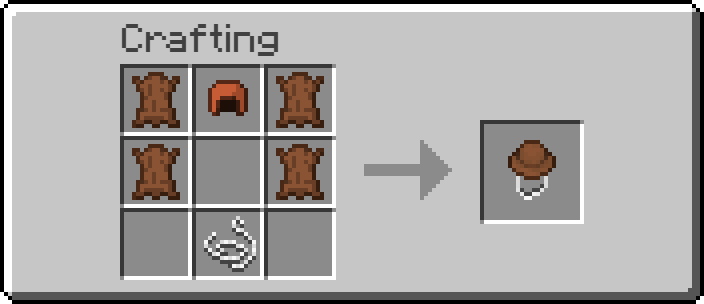
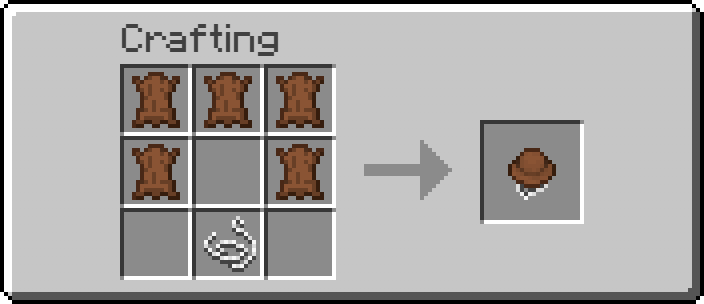
Update devlog with Belt progress

Changed region(s): [[0.2812, 0.2368, 0.375, 0.4441], [0.7188, 0.4441, 0.8125, 0.6513]]

diff --git a/DEVLOG.md b/DEVLOG.md
@@ -572,6 +572,7 @@ Release+-specific visual and sound options are grouped under `Release+ Features`
 - Tarot: three cosmetic texture variants
 - Charcoal: Release+ or Vanilla
 - Furnace Sounds: ON or OFF
+- Belt Item Display: ON or OFF (default ON)
 - These settings do not change gameplay
 
 #### Pouch
@@ -616,7 +617,7 @@ Hard Leather is a reinforced form of Leather used for sturdier utility equipment
 
 <img src="docs/images/hard-leather-comparison.png" alt="Leather and Hard Leather" width="360">
 
-- Hard Leather is used by the Backpack and Fishing Hat
+- Hard Leather is used by the Backpack, Fishing Hat and Belt
 - Books now use Hard Leather instead of normal Leather
 
 #### Fishing Hat
@@ -636,6 +637,42 @@ The Fishing Hat is a reinforced Leather Helmet for players who spend time fishin
 
 <img src="docs/images/fishing-hat-recipe.png" alt="Fishing Hat recipe" width="360">
 <img src="docs/images/fishing-hat-inventory.png" alt="Fishing Hat equipped in the inventory" width="360">
+
+</details>
+
+#### Belt
+
+The Belt is a lightweight Hard Leather equipment piece that gives up some leg protection in exchange for one dedicated carried-item slot.
+
+<img src="docs/images/belt-showcase.png" alt="Belt worn with a stored tool" width="500">
+
+- Equips in the leggings armor slot and provides **1 armor point**
+- Has **123 durability**
+- Holds one Sword, Axe, Pickaxe, Shovel, Hoe, pair of Shears or Steel Hammer
+- Its dedicated slot appears beside the player inventory and as a separate slot to the left of the hotbar while occupied
+- Pressing the configurable Belt key (`B` by default) switches to the stored item; pressing it again returns to the previous hotbar slot
+- A stowed item is visibly carried on the Belt in third person and disappears from the Belt while selected
+- `Belt Item Display` in `Release+ Features` can hide the visible stowed item without changing Belt mechanics
+- Normal item pickups do not automatically fill the Belt slot
+- If the Belt is removed or breaks while carrying an item, the stored item drops into the world
+
+<details>
+<summary>Recipe and inventory</summary>
+
+<img src="docs/images/belt-recipe.png" alt="Belt recipe" width="360">
+<img src="docs/images/belt-inventory-gui.png" alt="Belt equipped with its dedicated inventory slot" width="360">
+<img src="docs/images/belt-1stperson-hotbar.png" alt="Belt slot beside the hotbar" width="430">
+
+</details>
+
+<details>
+<summary>More worn Belt views</summary>
+
+<img src="docs/images/belt-item-sword.png" alt="Sword stored on the Belt" width="220">
+<img src="docs/images/belt-item-axe.png" alt="Axe stored on the Belt" width="220">
+<img src="docs/images/belt-item-sword-boots.png" alt="Belt worn with boots" width="220">
+<img src="docs/images/belt-item-sword-boots-chestplate.png" alt="Belt worn with boots and a chestplate" width="220">
+<img src="docs/images/belt-item-sword-boots-backpack.png" alt="Belt worn together with a Backpack" width="220">
 
 </details>
 
@@ -799,6 +836,7 @@ There is currently no way to obtain the Tarot of Death in Survival.
 - Blast Furnace, Anvil and Steel Hammer visuals are recolored/retextured vanilla Minecraft assets
 - Grindstone model, GUI and sounds are adapted from later vanilla Minecraft assets, with its textures reworked/recolored for Release+
 - Fishing Hat item sprite is based on the Angler's Hat from [Artifacts](https://modrinth.com/mod/artifacts)
+- Belt item sprite is heavily based on and recolored from [Tool Belt Retextured](https://www.curseforge.com/minecraft/texture-packs/tool-belt-retextured)
 - Chain Links texture is inspired by [Better Than Adventure](https://www.betterthanadventure.net/)
 - Crystal textures are based on artwork by [yptsh](https://x.com/yptsh/status/1623341389122510848)
 - Pouch, Spyglass and Bottle o' Enchanting assets are based on assets from later Minecraft versions
